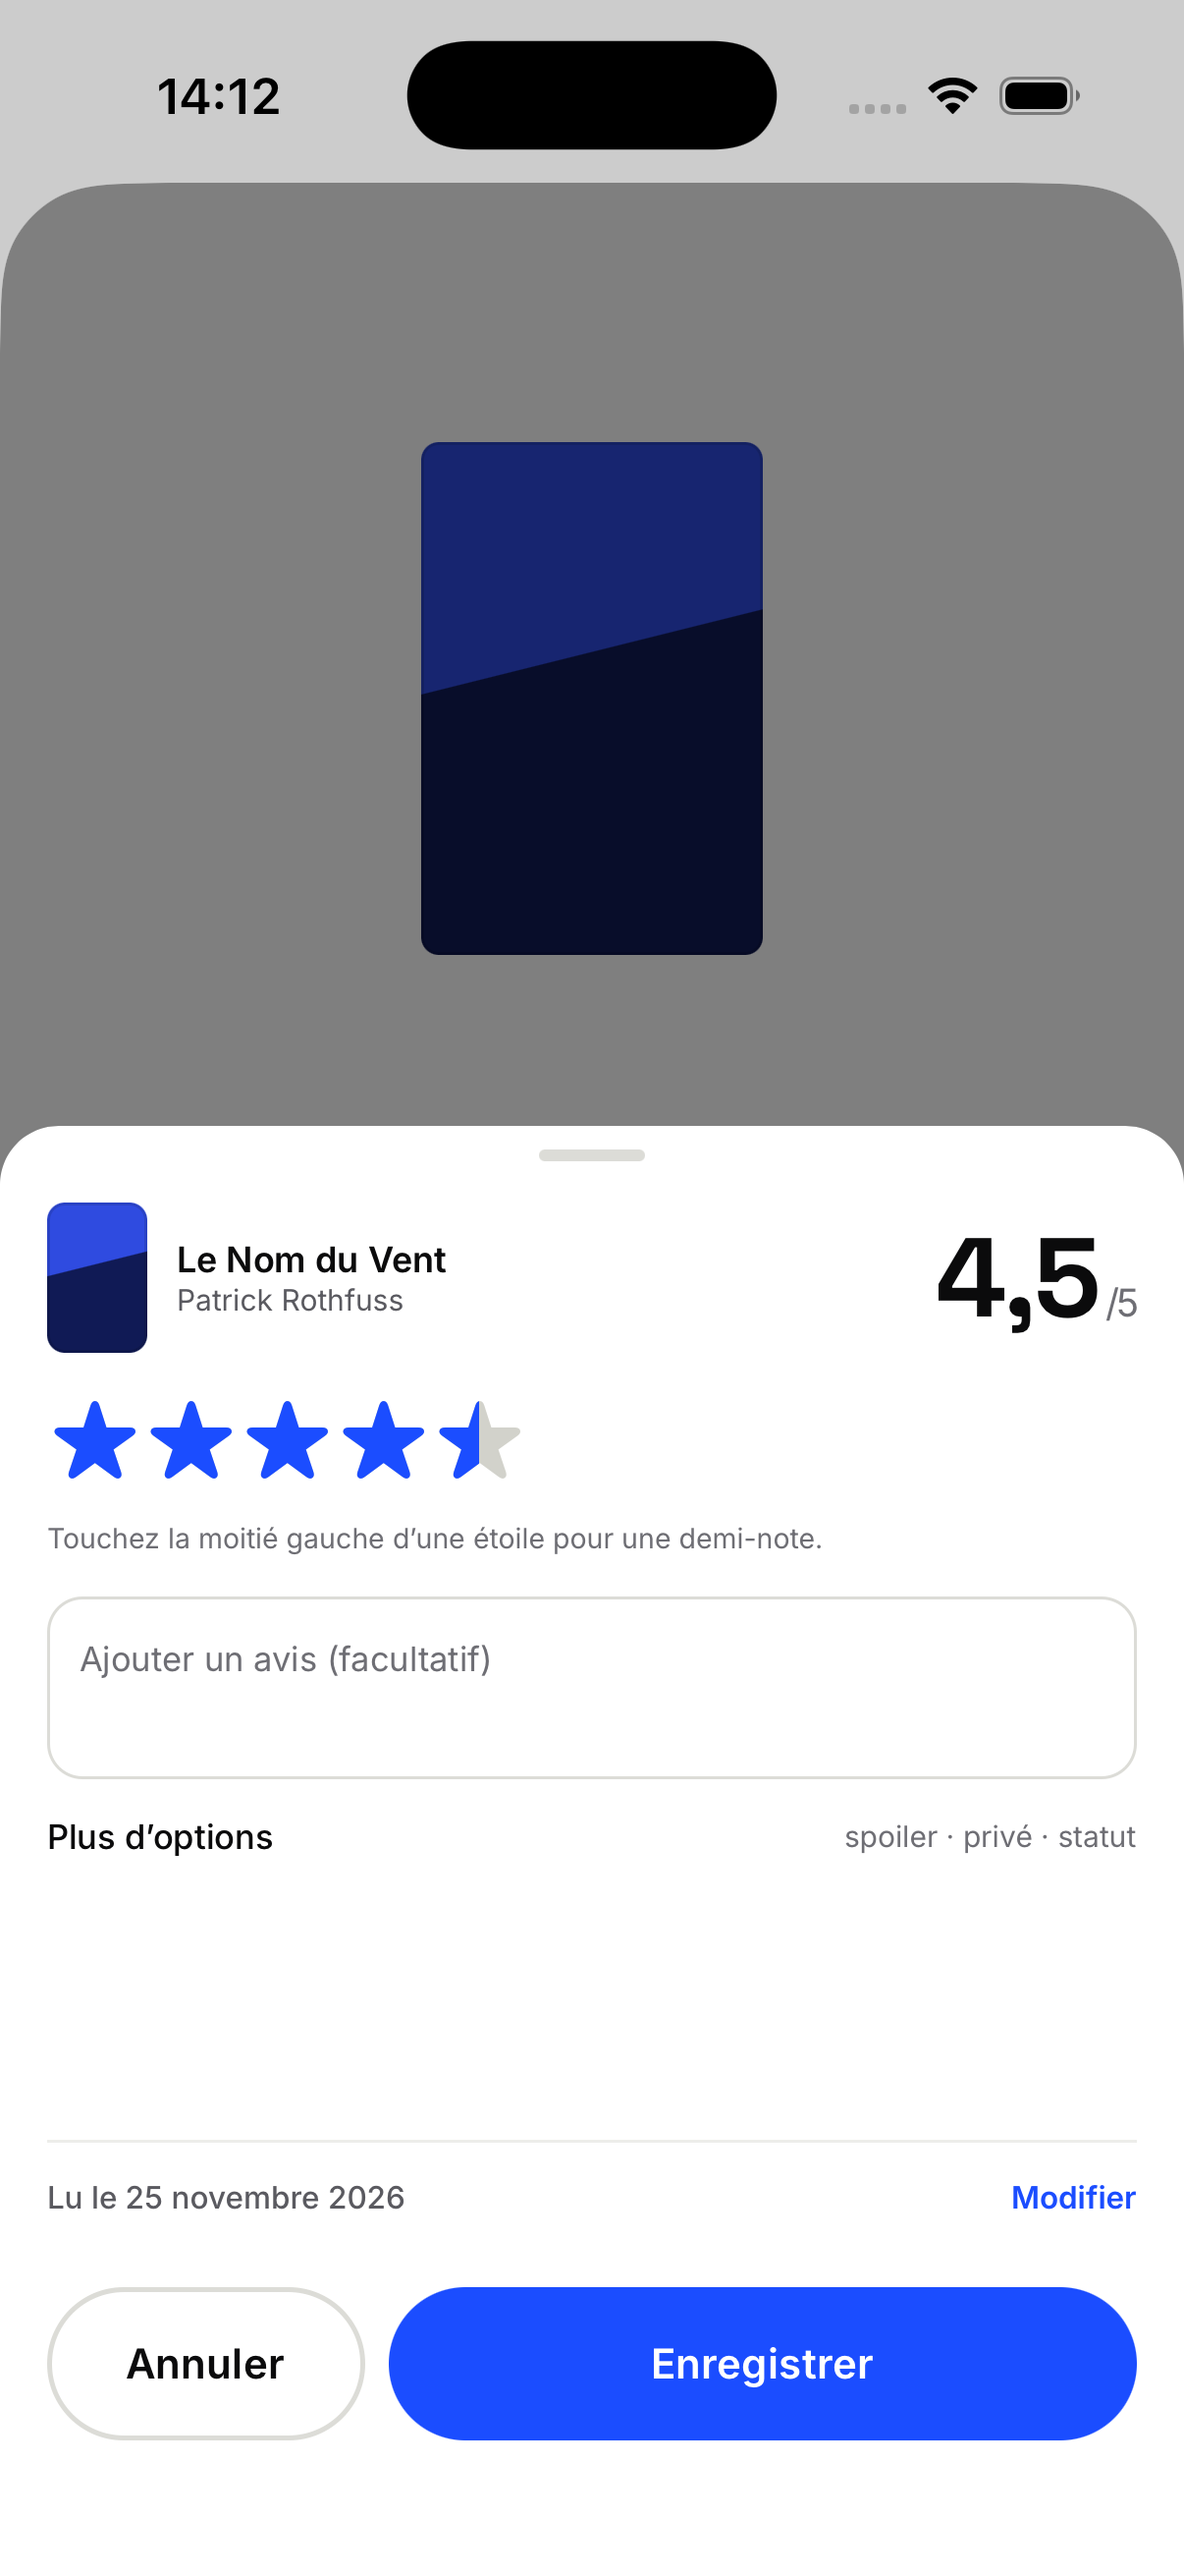
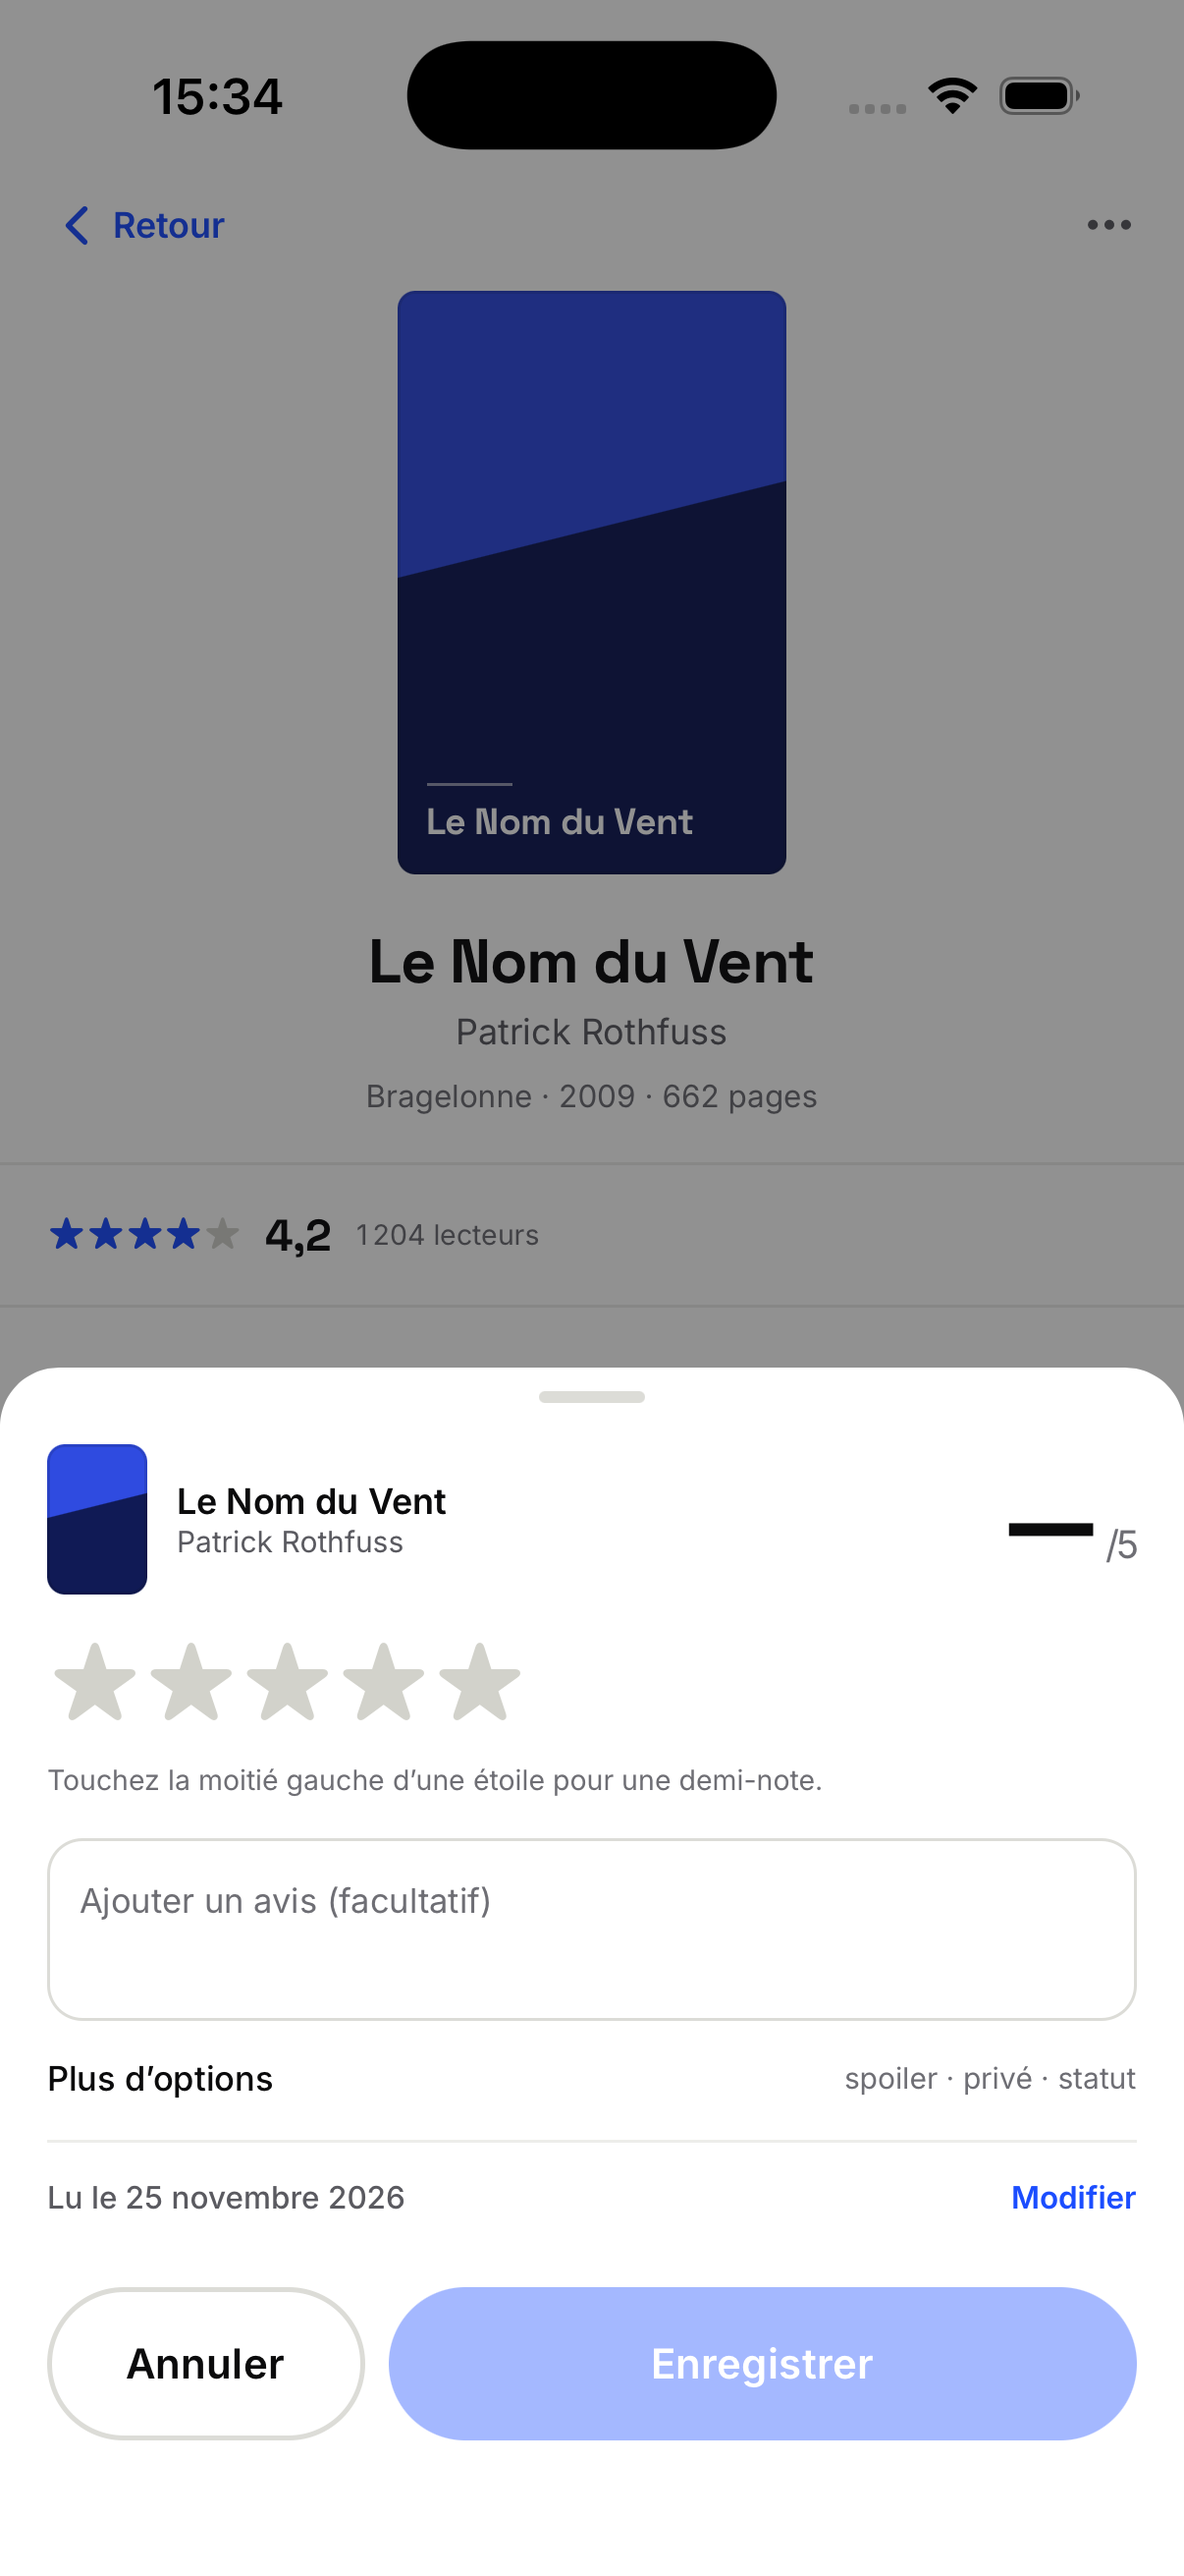
Notation : feuille transparente au lieu du modal natif (plus de carte grise derrière)

diff --git a/app/src/app/rate/[id].tsx b/app/src/app/rate/[id].tsx
@@ -1,6 +1,17 @@
 import { useLocalSearchParams, useRouter } from 'expo-router';
-import { useState } from 'react';
-import { KeyboardAvoidingView, Platform, Pressable, Switch, Text, TextInput, View } from 'react-native';
+import { useEffect, useState } from 'react';
+import {
+  Animated,
+  Easing,
+  KeyboardAvoidingView,
+  Platform,
+  Pressable,
+  StyleSheet,
+  Switch,
+  Text,
+  TextInput,
+  View,
+} from 'react-native';
 import { useSafeAreaInsets } from 'react-native-safe-area-context';
 
 import { Button } from '@/components/Button';
@@ -27,6 +38,20 @@ export default function RateScreen() {
   const [spoiler, setSpoiler] = useState(false);
   const [priv, setPriv] = useState(false);
 
+  const [slide] = useState(() => new Animated.Value(0));
+  useEffect(() => {
+    Animated.timing(slide, {
+      toValue: 1,
+      duration: 260,
+      easing: Easing.out(Easing.cubic),
+      useNativeDriver: true,
+    }).start();
+  }, [slide]);
+
+  const translateY = slide.interpolate({ inputRange: [0, 1], outputRange: [560, 0] });
+
+  const close = () => router.back();
+
   const save = () => {
     if (value <= 0) return;
     rate({ bookId: book.id, value, review, status });
@@ -36,145 +61,150 @@ export default function RateScreen() {
   return (
     <KeyboardAvoidingView
       behavior={Platform.OS === 'ios' ? 'padding' : undefined}
-      style={{ flex: 1, backgroundColor: theme.bg }}>
-      <View style={{ flex: 1 }}>
-        <View style={{ alignItems: 'center', paddingTop: insets.top + 26 }}>
-          <Cover book={book} width={116} showText={false} />
+      style={{ flex: 1, justifyContent: 'flex-end' }}>
+      {/* Voile : assombrit la fiche livre restée visible derrière */}
+      <Pressable
+        accessible={false}
+        onPress={close}
+        style={[StyleSheet.absoluteFill, { backgroundColor: 'rgba(11, 11, 12, 0.45)' }]}
+      />
+
+      <Animated.View
+        style={{
+          backgroundColor: theme.bg,
+          borderTopLeftRadius: 20,
+          borderTopRightRadius: 20,
+          paddingHorizontal: space.lg,
+          paddingTop: 8,
+          paddingBottom: insets.bottom + 12,
+          transform: [{ translateY }],
+        }}>
+        <View
+          style={{
+            width: 36,
+            height: 4,
+            borderRadius: 2,
+            backgroundColor: theme.line2,
+            alignSelf: 'center',
+            marginBottom: 14,
+          }}
+        />
+
+        <View style={{ flexDirection: 'row', alignItems: 'center', gap: 10 }}>
+          <Cover book={book} width={34} showText={false} />
+          <View style={{ flex: 1 }}>
+            <Text style={{ fontFamily: fonts.uiSemi, fontSize: 12, color: theme.ink }} numberOfLines={1}>
+              {book.title}
+            </Text>
+            <Text style={{ fontFamily: fonts.ui, fontSize: 10, color: theme.ink2 }} numberOfLines={1}>
+              {book.author}
+            </Text>
+          </View>
+          <Text style={{ fontFamily: fonts.display, fontSize: 38, color: theme.ink, letterSpacing: -1 }}>
+            {value > 0 ? value.toFixed(1).replace('.', ',') : '—'}
+            <Text style={{ fontFamily: fonts.ui, fontSize: 13, color: theme.ink3 }}> /5</Text>
+          </Text>
         </View>
-        <View style={{ position: 'absolute', top: 0, left: 0, right: 0, bottom: 0, backgroundColor: '#000', opacity: 0.5 }} />
+
+        <View style={{ marginTop: 14 }} accessibilityLabel="Note sur 5">
+          <Stars value={value} size={32} onChange={setValue} />
+        </View>
+        <Text style={{ fontFamily: fonts.ui, fontSize: 9.5, color: theme.ink3, marginTop: 8 }}>
+          Touchez la moitié gauche d’une étoile pour une demi-note.
+        </Text>
+
+        <TextInput
+          value={review}
+          onChangeText={setReview}
+          placeholder="Ajouter un avis (facultatif)"
+          placeholderTextColor={theme.ink3}
+          multiline
+          style={{
+            marginTop: 14,
+            minHeight: 62,
+            borderWidth: 1,
+            borderColor: theme.line2,
+            borderRadius: radius.md,
+            padding: 10,
+            fontFamily: fonts.ui,
+            fontSize: 11.5,
+            lineHeight: 17,
+            color: theme.ink,
+            textAlignVertical: 'top',
+          }}
+        />
+
+        <Pressable
+          onPress={() => setAdvanced((v) => !v)}
+          accessibilityRole="button"
+          accessibilityState={{ expanded: advanced }}
+          style={{ flexDirection: 'row', justifyContent: 'space-between', alignItems: 'center', paddingVertical: 12 }}>
+          <Text style={{ fontFamily: fonts.uiMedium, fontSize: 11.5, color: theme.ink }}>Plus d’options</Text>
+          <Text style={{ fontFamily: fonts.ui, fontSize: 10, color: theme.ink3 }}>
+            {advanced ? 'masquer' : 'spoiler · privé · statut'}
+          </Text>
+        </Pressable>
+
+        {advanced ? (
+          <View>
+            <View style={{ flexDirection: 'row', justifyContent: 'space-between', alignItems: 'center', paddingVertical: 6 }}>
+              <Text style={{ fontFamily: fonts.ui, fontSize: 11, color: theme.ink2 }}>Contient un spoiler</Text>
+              <Switch value={spoiler} onValueChange={setSpoiler} />
+            </View>
+            <View style={{ flexDirection: 'row', justifyContent: 'space-between', alignItems: 'center', paddingVertical: 6 }}>
+              <Text style={{ fontFamily: fonts.ui, fontSize: 11, color: theme.ink2 }}>Privé</Text>
+              <Switch value={priv} onValueChange={setPriv} />
+            </View>
+            <View style={{ flexDirection: 'row', gap: 6, paddingTop: 6 }}>
+              {(['read', 'reread', 'dnf'] as Status[]).map((s) => {
+                const on = status === s;
+                const label = s === 'read' ? 'Lu' : s === 'reread' ? 'Relire' : 'Abandonné';
+                return (
+                  <Pressable
+                    key={s}
+                    onPress={() => setStatus(s)}
+                    accessibilityRole="button"
+                    accessibilityState={{ selected: on }}
+                    style={{
+                      borderRadius: radius.pill,
+                      borderWidth: 1,
+                      borderColor: on ? theme.ink : theme.line2,
+                      backgroundColor: on ? theme.ink : 'transparent',
+                      paddingHorizontal: 12,
+                      paddingVertical: 7,
+                    }}>
+                    <Text style={{ fontFamily: fonts.uiMedium, fontSize: 10, color: on ? theme.bg : theme.ink2 }}>
+                      {label}
+                    </Text>
+                  </Pressable>
+                );
+              })}
+            </View>
+          </View>
+        ) : null}
 
         <View
           style={{
-            position: 'absolute',
-            left: 0,
-            right: 0,
-            bottom: 0,
-            top: advanced ? 176 : 320,
-            backgroundColor: theme.bg,
-            borderTopLeftRadius: 20,
-            borderTopRightRadius: 20,
-            paddingHorizontal: space.lg,
-            paddingBottom: insets.bottom + 12,
+            flexDirection: 'row',
+            justifyContent: 'space-between',
+            alignItems: 'center',
+            paddingVertical: 12,
+            marginTop: advanced ? 8 : 2,
+            borderTopWidth: 1,
+            borderTopColor: theme.line,
+            marginBottom: 12,
           }}>
-          <View style={{ width: 36, height: 4, borderRadius: 2, backgroundColor: theme.line2, alignSelf: 'center', marginTop: 8, marginBottom: 14 }} />
-
-          <View style={{ flexDirection: 'row', alignItems: 'center', gap: 10 }}>
-            <Cover book={book} width={34} showText={false} />
-            <View style={{ flex: 1 }}>
-              <Text style={{ fontFamily: fonts.uiSemi, fontSize: 12, color: theme.ink }} numberOfLines={1}>
-                {book.title}
-              </Text>
-              <Text style={{ fontFamily: fonts.ui, fontSize: 10, color: theme.ink2 }} numberOfLines={1}>
-                {book.author}
-              </Text>
-            </View>
-            <Text style={{ fontFamily: fonts.display, fontSize: 38, color: theme.ink, letterSpacing: -1 }}>
-              {value > 0 ? value.toFixed(1).replace('.', ',') : '—'}
-              <Text style={{ fontFamily: fonts.ui, fontSize: 13, color: theme.ink3 }}> /5</Text>
-            </Text>
-          </View>
-
-          <View style={{ marginTop: 14 }} accessibilityLabel="Note sur 5">
-            <Stars value={value} size={32} onChange={setValue} />
-          </View>
-          <Text style={{ fontFamily: fonts.ui, fontSize: 9.5, color: theme.ink3, marginTop: 8 }}>
-            Touchez la moitié gauche d’une étoile pour une demi-note.
+          <Text style={{ fontFamily: fonts.uiMedium, fontSize: 10.5, color: theme.ink2 }}>
+            Lu le {new Date().toLocaleDateString('fr-FR', { day: 'numeric', month: 'long', year: 'numeric' })}
           </Text>
-
-          <TextInput
-            value={review}
-            onChangeText={setReview}
-            placeholder="Ajouter un avis (facultatif)"
-            placeholderTextColor={theme.ink3}
-            multiline
-            style={{
-              marginTop: 14,
-              minHeight: 62,
-              borderWidth: 1,
-              borderColor: theme.line2,
-              borderRadius: radius.md,
-              padding: 10,
-              fontFamily: fonts.ui,
-              fontSize: 11.5,
-              lineHeight: 17,
-              color: theme.ink,
-              textAlignVertical: 'top',
-            }}
-          />
-
-          <Pressable
-            onPress={() => setAdvanced((v) => !v)}
-            accessibilityRole="button"
-            accessibilityState={{ expanded: advanced }}
-            style={{ flexDirection: 'row', justifyContent: 'space-between', alignItems: 'center', paddingVertical: 12 }}>
-            <Text style={{ fontFamily: fonts.uiMedium, fontSize: 11.5, color: theme.ink }}>Plus d’options</Text>
-            <Text style={{ fontFamily: fonts.ui, fontSize: 10, color: theme.ink3 }}>
-              {advanced ? 'masquer' : 'spoiler · privé · statut'}
-            </Text>
-          </Pressable>
-
-          {advanced ? (
-            <View>
-              <View style={{ flexDirection: 'row', justifyContent: 'space-between', alignItems: 'center', paddingVertical: 6 }}>
-                <Text style={{ fontFamily: fonts.ui, fontSize: 11, color: theme.ink2 }}>Contient un spoiler</Text>
-                <Switch value={spoiler} onValueChange={setSpoiler} />
-              </View>
-              <View style={{ flexDirection: 'row', justifyContent: 'space-between', alignItems: 'center', paddingVertical: 6 }}>
-                <Text style={{ fontFamily: fonts.ui, fontSize: 11, color: theme.ink2 }}>Privé</Text>
-                <Switch value={priv} onValueChange={setPriv} />
-              </View>
-              <View style={{ flexDirection: 'row', gap: 6, paddingTop: 6 }}>
-                {(['read', 'reread', 'dnf'] as Status[]).map((s) => {
-                  const on = status === s;
-                  const label = s === 'read' ? 'Lu' : s === 'reread' ? 'Relire' : 'Abandonné';
-                  return (
-                    <Pressable
-                      key={s}
-                      onPress={() => setStatus(s)}
-                      accessibilityRole="button"
-                      accessibilityState={{ selected: on }}
-                      style={{
-                        borderRadius: radius.pill,
-                        borderWidth: 1,
-                        borderColor: on ? theme.ink : theme.line2,
-                        backgroundColor: on ? theme.ink : 'transparent',
-                        paddingHorizontal: 12,
-                        paddingVertical: 7,
-                      }}>
-                      <Text style={{ fontFamily: fonts.uiMedium, fontSize: 10, color: on ? theme.bg : theme.ink2 }}>
-                        {label}
-                      </Text>
-                    </Pressable>
-                  );
-                })}
-              </View>
-            </View>
-          ) : null}
-
-          <View style={{ flex: 1 }} />
-
-          <View
-            style={{
-              flexDirection: 'row',
-              justifyContent: 'space-between',
-              alignItems: 'center',
-              paddingVertical: 12,
-              borderTopWidth: 1,
-              borderTopColor: theme.line,
-              marginBottom: 12,
-            }}>
-            <Text style={{ fontFamily: fonts.uiMedium, fontSize: 10.5, color: theme.ink2 }}>
-              Lu le {new Date().toLocaleDateString('fr-FR', { day: 'numeric', month: 'long', year: 'numeric' })}
-            </Text>
-            <Text style={{ fontFamily: fonts.uiSemi, fontSize: 10.5, color: theme.acc }}>Modifier</Text>
-          </View>
-
-          <View style={{ flexDirection: 'row', gap: 8 }}>
-            <Button label="Annuler" variant="outline" style={{ width: 108 }} onPress={() => router.back()} />
-            <Button label="Enregistrer" style={{ flex: 1 }} disabled={value <= 0} onPress={save} />
-          </View>
+          <Text style={{ fontFamily: fonts.uiSemi, fontSize: 10.5, color: theme.acc }}>Modifier</Text>
         </View>
-      </View>
+
+        <View style={{ flexDirection: 'row', gap: 8 }}>
+          <Button label="Annuler" variant="outline" style={{ width: 108 }} onPress={close} />
+          <Button label="Enregistrer" style={{ flex: 1 }} disabled={value <= 0} onPress={save} />
+        </View>
+      </Animated.View>
     </KeyboardAvoidingView>
   );
 }

diff --git a/app/src/app/_layout.tsx b/app/src/app/_layout.tsx
@@ -26,7 +26,11 @@ function Navigator() {
         <Stack.Screen name="book/[id]" options={{ animation: 'slide_from_right' }} />
         <Stack.Screen
           name="rate/[id]"
-          options={{ presentation: 'modal', animation: 'slide_from_bottom' }}
+          options={{
+            presentation: 'transparentModal',
+            animation: 'fade',
+            contentStyle: { backgroundColor: 'transparent' },
+          }}
         />
       </Stack>
     </>
